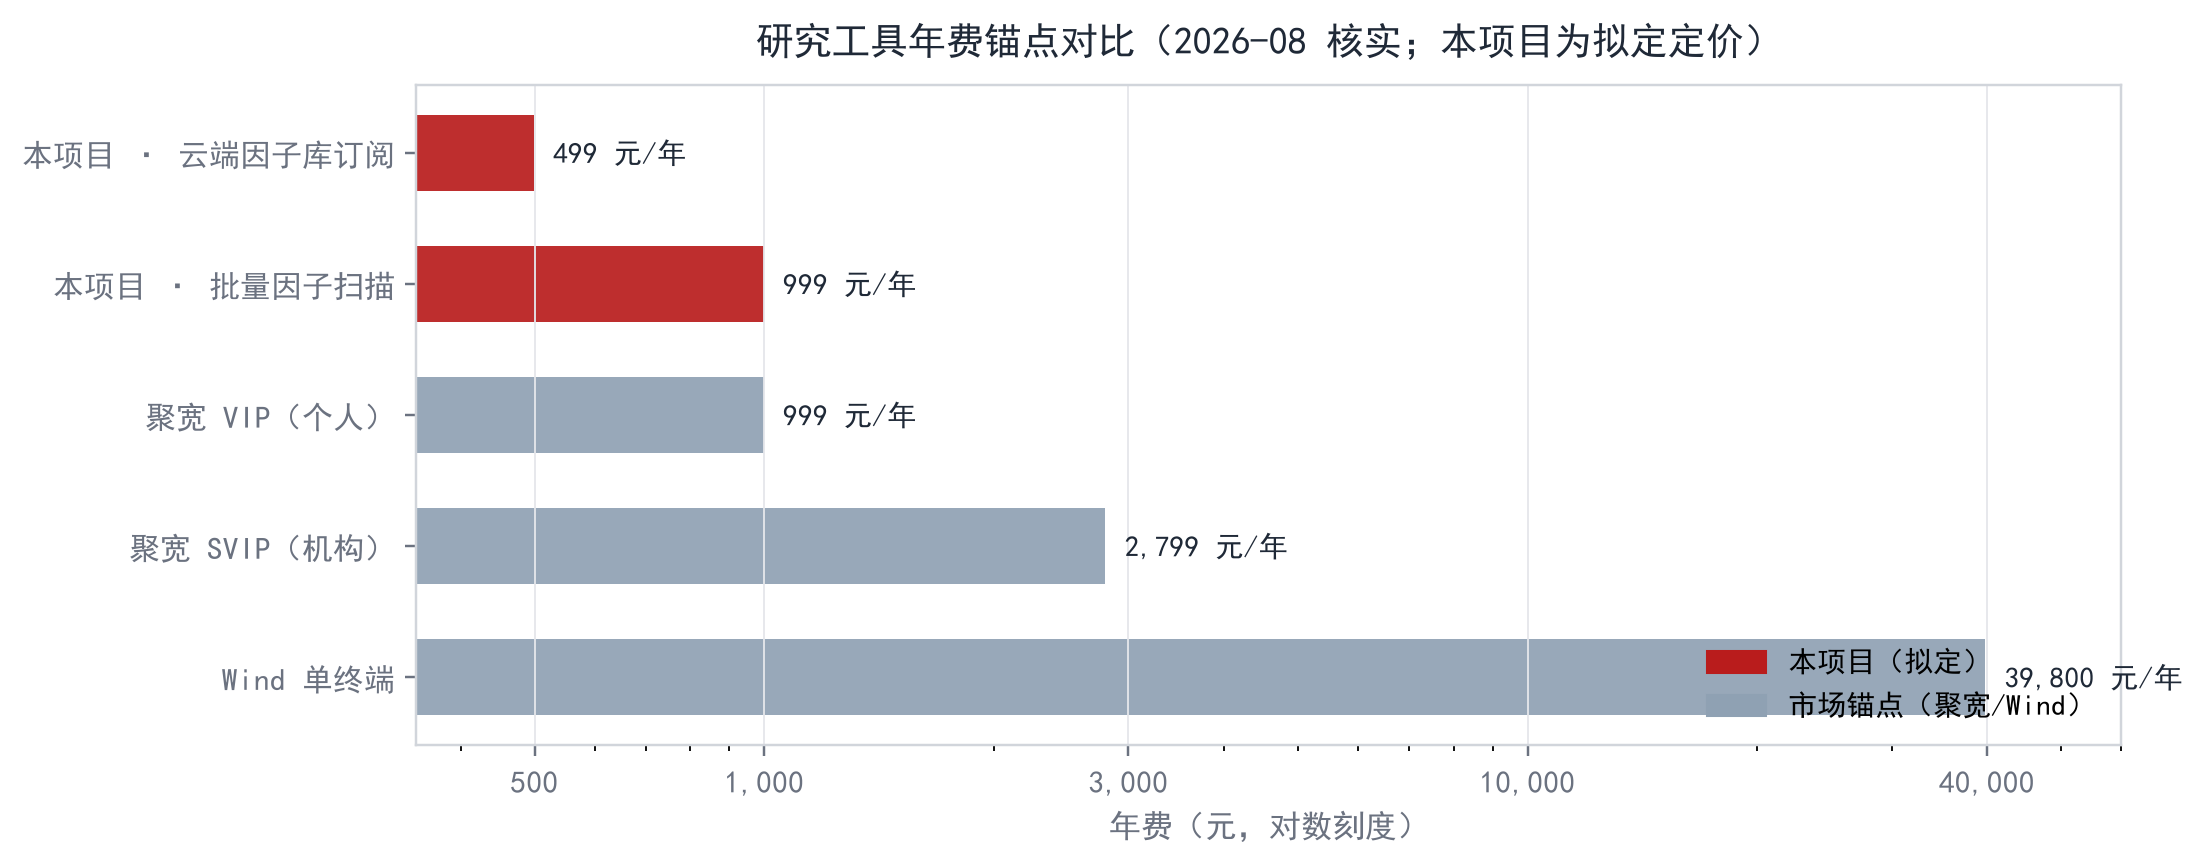
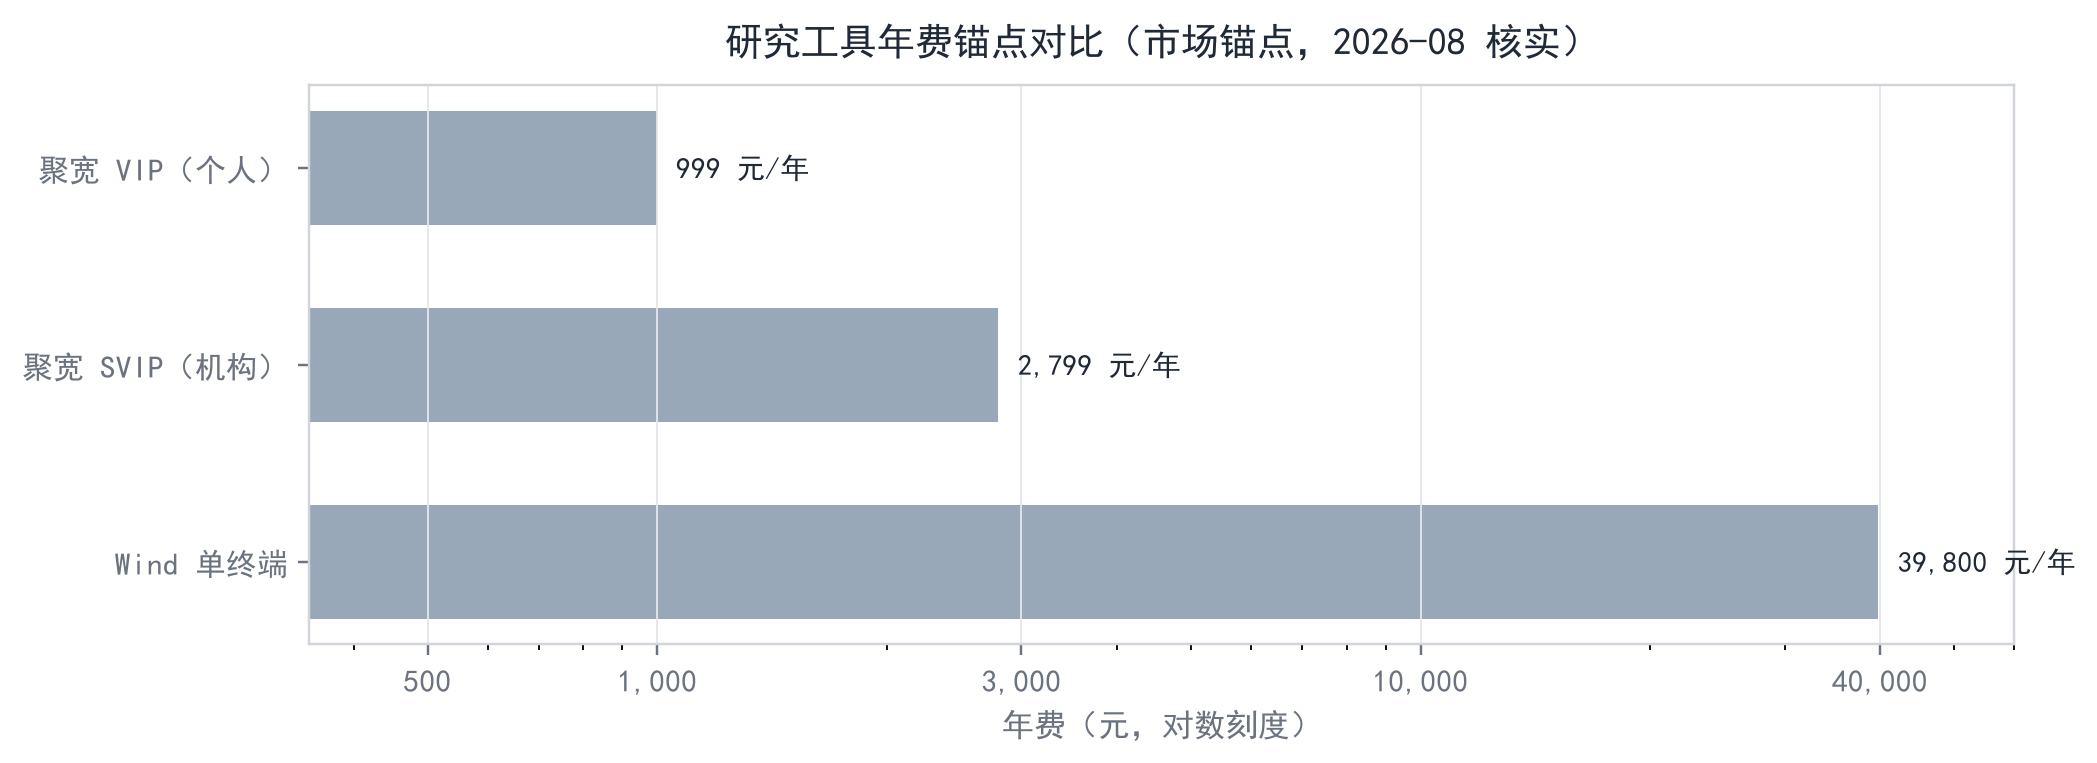
docs: 商业叙事修订 + 3章真实体验记录 + 智能体闭环图
- 8.4 删除拟定价格(499/999)，定价交落地阶段验证；补 PLG 增长叙事
- 定价图只留市场锚点(Wind/聚宽)，图注同步
- 3章实录重写为真实体验记录：虚构'IC显著'改为真实体检数字
  (评分66.4/IC 0.020不显著/换手34.7%)，与6章同源可复现
- 新增图4-2受限智能体闭环(感知→决策→行动→反思)
- 8.5 卡片整体起新页，消除拆页空白

Changed region(s): [[0.0, 0.0301, 0.9919, 0.9948], [0.031, 0.3014, 0.062, 0.3617]]

diff --git a/scripts/make_charts.py b/scripts/make_charts.py
@@ -236,23 +236,22 @@ def chart_tam() -> None:
 def chart_pricing() -> None:
     """图（8.4）：研究工具年费锚点对比（对数刻度横向条形）。
 
-    竞品年费（Wind 39800 / 聚宽 SVIP 2799 / VIP 999）为市场锚点
-    （2026-08 核实，来源同 8.4 节）；本项目两档为拟定定价，朱红
-    高亮。x 轴对数刻度——Wind 与本项目差 80 倍，线性刻度下
-    499/999 会被压成看不见的细条。
+    只画市场锚点（Wind 39800 / 聚宽 SVIP 2799 / VIP 999，2026-08
+    核实，来源同 8.4 节）——论证「研究工具年费」的付费意愿已被
+    市场验证。不画本项目拟定价格：定价由落地阶段按市场反馈验证，
+    方案书不预设具体费用。
+    x 轴对数刻度——Wind 与个人档差 40 倍，线性刻度下
+    999 会被压成看不见的细条。
     """
-    items = [("Wind 单终端", 39800, False),
-             ("聚宽 SVIP（机构）", 2799, False),
-             ("聚宽 VIP（个人）", 999, False),
-             ("本项目 · 批量因子扫描", 999, True),
-             ("本项目 · 云端因子库订阅", 499, True)]
+    items = [("Wind 单终端", 39800),
+             ("聚宽 SVIP（机构）", 2799),
+             ("聚宽 VIP（个人）", 999)]
     names = [i[0] for i in items]
     vals = [i[1] for i in items]
-    colors = [RED if ai else GRAY for _, _, ai in items]
 
-    fig, ax = plt.subplots(figsize=(FIG_W, 3.9))
+    fig, ax = plt.subplots(figsize=(FIG_W, 3.3))
     y = np.arange(len(items))
-    bars = ax.barh(y, vals, 0.58, color=colors, alpha=0.92)
+    ax.barh(y, vals, 0.58, color=GRAY, alpha=0.92)
     for yi, v in zip(y, vals):
         ax.text(v * 1.06, yi, f"{v:,} 元/年", va="center", fontsize=9.5,
                 color=INK, fontweight="bold")
@@ -263,12 +262,8 @@ def chart_pricing() -> None:
     ax.set_yticks(y)
     ax.set_yticklabels(names, fontsize=10)
     ax.set_xlabel("年费（元，对数刻度）", fontsize=10.5, color=MUTED)
-    ax.set_title("研究工具年费锚点对比（2026-08 核实；本项目为拟定定价）",
+    ax.set_title("研究工具年费锚点对比（市场锚点，2026-08 核实）",
                  fontsize=12.5, color=INK, pad=10)
-    from matplotlib.patches import Patch
-    ax.legend(handles=[Patch(color=RED, label="本项目（拟定）"),
-                       Patch(color=GRAY, label="市场锚点（聚宽/Wind）")],
-              fontsize=9.5, frameon=False, loc="lower right")
     style_ax(ax, axis="x")
     save(fig, "pricing_bar.png")
 
@@ -533,6 +528,114 @@ def chart_arch() -> None:
     save(fig, "arch.png")
 
 
+def chart_agent_loop() -> None:
+    """图（04 章，图 4-2）：受限智能体（Constrained Agent）工作闭环示意。
+
+    与 arch.png 同风格（matplotlib 手绘、axes-fraction 坐标、token
+    同源配色），把 4.7 节用文字定义的「感知 → 决策 → 行动 → 反思」
+    闭环画出来——评委一眼看懂 Agent 主题的核心机制：AI 负责「想」、
+    体检负责「判」、人负责「审」。纯结构示意（无数据），不进入复核管线。
+    """
+    fig, ax = plt.subplots(figsize=(FIG_W, 4.6))
+    ax.axis("off")
+    DARK = "#1e3a8a"; MID = "#3b82f6"; LIGHT = "#dbeafe"
+    RED_AX = "#b91c1c"; RED_LIGHT = "#fee2e2"
+    DATA_C = "#64748b"; DATA_LIGHT = "#e2e8f0"
+
+    def box(x: float, y: float, w: float, h: float, title: str,
+            lines: list[str]) -> None:
+        """画一个步骤框：深蓝块 + 白字步骤名 + 两行小字说明。
+        参数（axes fraction 坐标）：x/y 为左下角，w/h 为宽高。
+        """
+        ax.add_patch(Rectangle((x, y), w, h, transform=ax.transAxes,
+                               facecolor=DARK, edgecolor="none", alpha=0.92))
+        ax.text(x + w / 2, y + h - 0.028, title, transform=ax.transAxes,
+                ha="center", va="top", color="white", fontsize=11.5,
+                fontweight="bold")
+        for i, ln in enumerate(lines):
+            ax.text(x + w / 2, y + 0.035 + (len(lines) - i - 1) * 0.03,
+                    ln, transform=ax.transAxes, ha="center", va="bottom",
+                    color="#e2e8f0", fontsize=8.3)
+
+    def arrow(x1: float, y1: float, x2: float, y2: float, *,
+              color: str = DARK, ls: str = "-", rad: float = 0.0) -> None:
+        """两点间箭头（axes fraction）；rad 非 0 时画弧线（反思回喂用）。"""
+        ax.annotate("", xy=(x2, y2), xytext=(x1, y1),
+                    xycoords="axes fraction",
+                    arrowprops=dict(arrowstyle="->", color=color, lw=1.6,
+                                    linestyle=ls,
+                                    connectionstyle=f"arc3,rad={rad}"))
+
+    # —— 顶部安全边界条（结构安全是 Agent 的行动约束）——
+    ax.add_patch(Rectangle((0.03, 0.87), 0.94, 0.08, transform=ax.transAxes,
+                           facecolor=RED_LIGHT, edgecolor=RED_AX, lw=1.0))
+    ax.text(0.5, 0.91, "结构安全：18 个白名单算子 · 表达式树解析 · 无自由代码执行",
+            transform=ax.transAxes, ha="center", va="center",
+            color=RED_AX, fontsize=10.5, fontweight="bold")
+
+    # —— 用户输入（左侧虚线框，不进闭环）——
+    ax.add_patch(Rectangle((0.03, 0.53), 0.16, 0.20, transform=ax.transAxes,
+                           facecolor="white", edgecolor=DATA_C, lw=1.2,
+                           linestyle="--"))
+    ax.text(0.11, 0.645, "一句话想法\n（自然语言）", transform=ax.transAxes,
+            ha="center", va="center", color="#334155", fontsize=9)
+
+    # —— 闭环四步（横向排开）——
+    box(0.25, 0.50, 0.17, 0.26, "感知",
+        ["自然语言想法", "+ 体检诊断数值"])
+    box(0.44, 0.50, 0.17, 0.26, "决策",
+        ["依据诊断选择", "生成 / 修改表达式"])
+    box(0.63, 0.50, 0.17, 0.26, "行动",
+        ["受限 DSL 输出", "结构安全即边界"])
+    box(0.82, 0.50, 0.17, 0.26, "反思",
+        ["失败证据回喂", "自动改进（最多 2 轮）"])
+
+    # —— 主链路箭头（想法→感知→决策→行动→反思）——
+    arrow(0.19, 0.63, 0.25, 0.63, color=DATA_C, ls="--")   # 想法 → 感知
+    arrow(0.42, 0.63, 0.44, 0.63)                          # 感知 → 决策
+    arrow(0.61, 0.63, 0.63, 0.63)                          # 决策 → 行动
+    arrow(0.80, 0.63, 0.82, 0.63)                          # 行动 → 反思
+
+    # —— 体检（判官）——
+    arrow(0.715, 0.50, 0.715, 0.44)                        # 行动 → 体检
+    ax.text(0.735, 0.455, "受限表达式", transform=ax.transAxes,
+            ha="left", va="center", fontsize=8.3, color="#475569")
+    ax.add_patch(Rectangle((0.28, 0.20), 0.70, 0.24, transform=ax.transAxes,
+                           facecolor=DATA_LIGHT, edgecolor=DATA_C, lw=1.2))
+    ax.text(0.35, 0.385, "标准体检", transform=ax.transAxes, ha="left",
+            va="top", color="#1f2937", fontsize=10.5, fontweight="bold")
+    ax.text(0.35, 0.335, "IC / RankIC · 分层单调性 · 换手率 · IC 衰减",
+            transform=ax.transAxes, ha="left", va="top", fontsize=9,
+            color="#334155")
+    ax.text(0.35, 0.285, "综合评分（0–100，<50 为淘汰档）",
+            transform=ax.transAxes, ha="left", va="top", fontsize=9,
+            color="#334155")
+
+    # —— 达标 → 策略验证（成功路径）——
+    arrow(0.60, 0.20, 0.60, 0.15)                          # 体检 → 策略
+    ax.text(0.61, 0.165, "达标", transform=ax.transAxes, ha="left",
+            va="center", fontsize=8.3, color="#334155")
+    ax.add_patch(Rectangle((0.42, 0.05), 0.56, 0.10, transform=ax.transAxes,
+                           facecolor=MID, edgecolor="none", alpha=0.92))
+    ax.text(0.70, 0.10, "策略验证：Top-30 周频 · 扣双边成本 · 对比基准",
+            transform=ax.transAxes, ha="center", va="center", color="white",
+            fontsize=9.5, fontweight="bold")
+
+    # —— 反思回喂（失败路径，红色虚线弧）——
+    arrow(0.28, 0.28, 0.33, 0.50, color=RED_AX, ls="--", rad=-0.45)
+    ax.text(0.06, 0.30, "评分 <50 自动触发反思：失败诊断（IC 强度 / 换手率 /\n单调性 / 衰减速度）回喂 LLM，迭代后重新体检，最多 2 轮",
+            transform=ax.transAxes, ha="left", va="center", fontsize=8.3,
+            color=RED_AX)
+    # 右侧小标签：人的角色（AI 想 / 体检判 / 人审）
+    ax.text(0.95, 0.13, "人负责「审」：每一步输出可点开查看、可手动干预",
+            transform=ax.transAxes, ha="right", va="top", fontsize=8.3,
+            color="#475569")
+
+    ax.set_title("受限智能体（Constrained Agent）工作闭环：AI 负责「想」· 体检负责「判」· 人负责「审」",
+                 fontsize=12.5, color=INK, pad=10)
+    save(fig, "agent_loop.png")
+
+
 def verify_numbers(panel: dict, idx: pd.Series) -> None:
     """复核项目书 6.3 关键数字：20 日动量、AI 因子——不一致即警告。"""
     close = panel["close"]
@@ -561,6 +664,7 @@ def main() -> None:
     chart_dual_pool()          # 6.4 双池对照（读验证 JSON，不重算）
     chart_score_compare()      # 6.5 评分敏感性（读验证 JSON）
     chart_arch()               # 04 章系统架构图
+    chart_agent_loop()         # 04 章受限智能体闭环（图 4-2）
     chart_tam()                # 8.1 TAM 估算漏斗（结构示意）
     chart_pricing()            # 8.4 定价锚点对比（对数刻度）
     chart_oos(panel_full, idx) # 6.6 OOS 首周跟踪（完整 panel）
